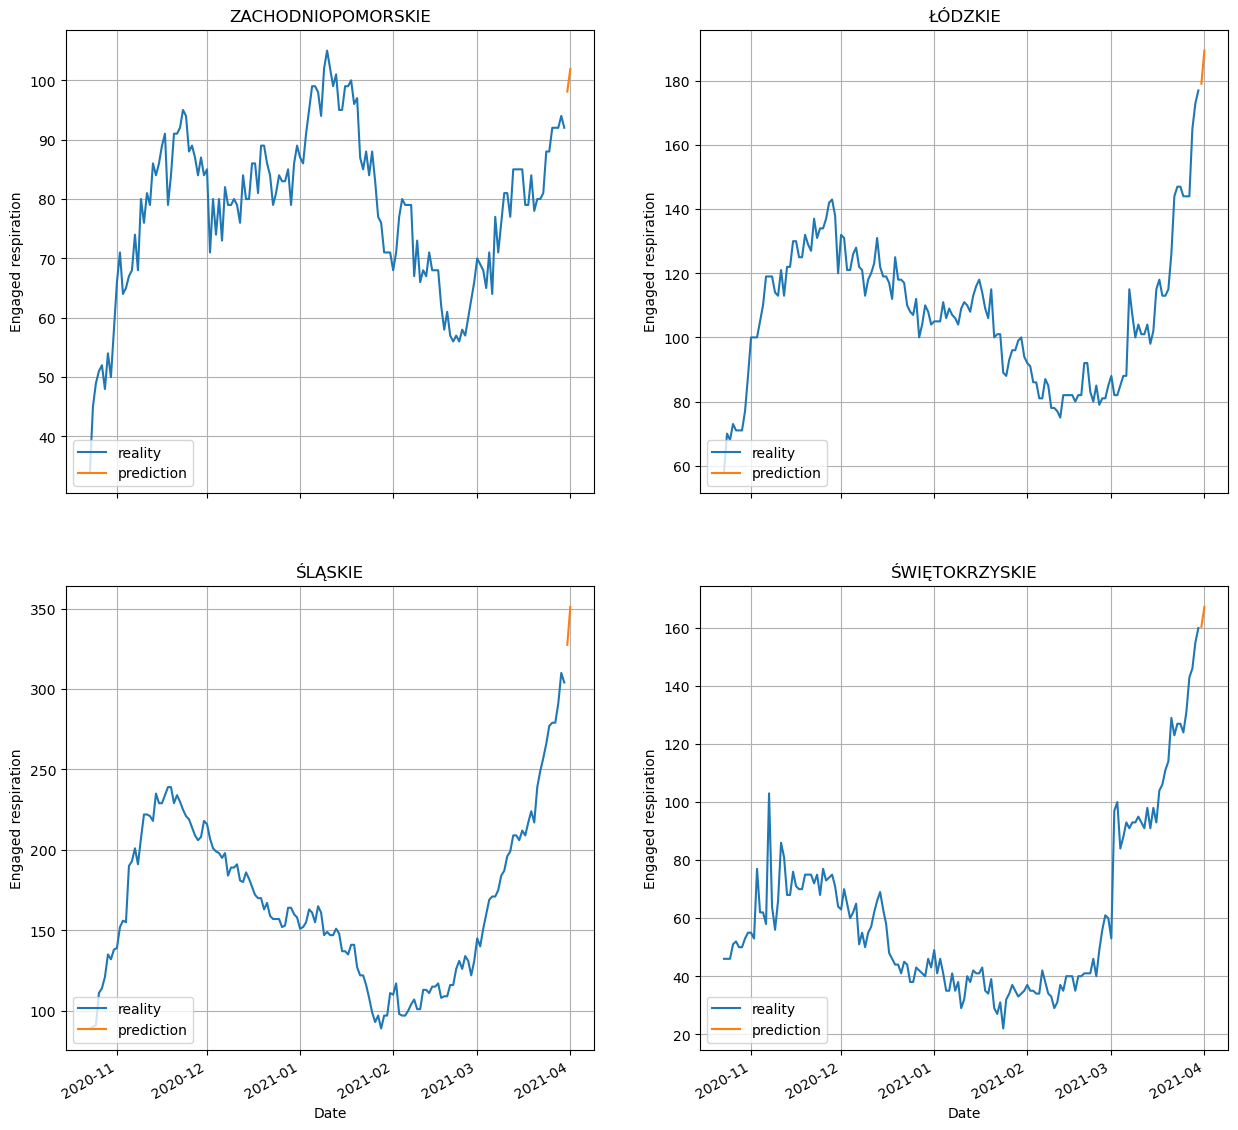
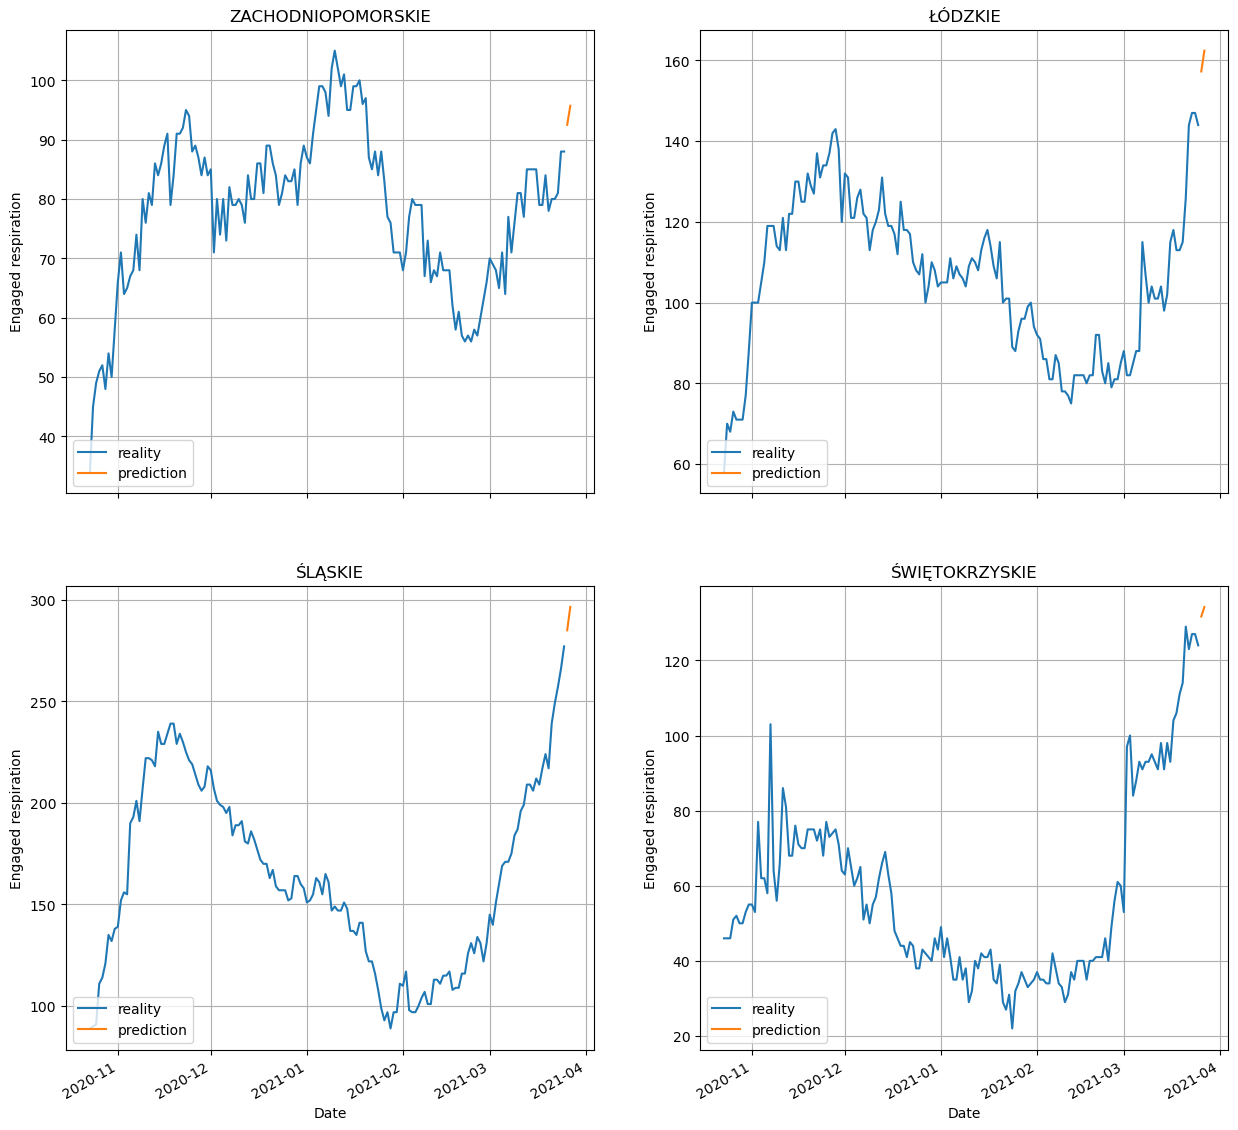
code reorganisation

diff --git a/RNN/prediction/make_prediction_and_plots.py b/RNN/prediction/make_prediction_and_plots.py
@@ -1,9 +1,7 @@
 from RNN.prediction.make_prediction_n_days_ahead import make_prediction_n_days_ahead
 from RNN.prediction.plot.plots import plot_prediction_to_poland_from_results, subplot_prediction_for_all_region, \
     subplot_relative_error_for_all_region, plot_averaged_relative_error_for_all_region, plot_relative_error_for_poland
-from prepareData.merge.merge_all_data import get_all_merge_data_from_to, get_all_merge_data
-
-import pandas as pd
+from prepare_data.merge.merge_all_data import get_all_merge_data_from_to, get_all_merge_data
 
 
 def make_prediction_and_subplot_for_all_regions(last_day_train='2021-03-20', day_ahead=30, period_of_time_learning=14,
@@ -15,7 +13,7 @@ def make_prediction_and_subplot_for_all_regions(last_day_train='2021-03-20', day
     results = make_prediction_n_days_ahead(data_all_days, day_ahead=day_ahead,
                                            period_of_time=period_of_time_learning, last_day_train=last_day_train)
     if subplot_for_regions:
-        data_merge_from_to = get_all_merge_data_from_to(data= data_all_days, last_day= last_day_train)
+        data_merge_from_to = get_all_merge_data_from_to(data=data_all_days, last_day=last_day_train)
         subplot_prediction_for_all_region([results], ['prediction'], data_merge_from_to)
 
     results['region'] = results['region'].replace('ŚŚ_average', 'POLSKA')
@@ -29,16 +27,14 @@ def make_prediction_and_subplot_for_all_regions(last_day_train='2021-03-20', day
     return results
 
 
-def make_plots_relative_error_for_regions(prediction=None):
-    if prediction is not None:
-        prediction = pd.read_csv('results/csv/prediction_for_region.csv')
+def make_plots_relative_error_for_regions(prediction):
 
     prediction['relative_error_%'] = 100 * abs(
         prediction['Engaged_respirator'] - prediction['prediction']) / prediction[
                                          'Engaged_respirator']
-    prediction_Poland = prediction[prediction['region'] == 'ŚŚ_average']
+    prediction_poland = prediction[prediction['region'] == 'ŚŚ_average']
     subplot_relative_error_for_all_region(prediction.copy())
     prediction = prediction[prediction['region'].isin(prediction['region'].unique()[:-3])]
 
     plot_averaged_relative_error_for_all_region(prediction)
-    plot_relative_error_for_poland(prediction_Poland)
+    plot_relative_error_for_poland(prediction_poland)

diff --git a/prepare_data/merge/merge_all_data.py b/prepare_data/merge/merge_all_data.py
@@ -1,13 +1,13 @@
-from prepareData.merge.merge_data_mobility_epidemic_situation import get_merge_data_from_to, get_merge_data
-from prepareData.augmentation.data_augmentation import data_augmentation
-from prepareData.prepare_data_area_population import preparing_data_area_population_regions
+from prepare_data.merge.data_area_and_population.prepare_data_area_population import \
+    preparing_data_area_population_regions
+from prepare_data.merge.merge_data_mobility_epidemic_situation import get_merge_data_from_to, get_merge_data
+from prepare_data.augmentation.data_augmentation import data_augmentation
 import pandas as pd
-from prepareData.test_train.make_train_test_from_merge_data import one_hot_encode
+from prepare_data.test_train.make_train_test_from_merge_data import one_hot_encode
 
 
 def get_all_merge_data_from_to(first_day: str = None, last_day='2021-05-05', number_of_gaussian_noise_regions=1,
                                data=None):
-
     if data is None:
         data = get_all_merge_data(number_of_gaussian_noise_regions)
     data_all_from_to = get_merge_data_from_to(first_day, last_day, data)

diff --git a/prepare_data/merge/data_epidemic_situation_in_regions/prepare_data_epidemic_situation_in_regions.py b/prepare_data/merge/data_epidemic_situation_in_regions/prepare_data_epidemic_situation_in_regions.py
@@ -1,6 +1,7 @@
 import pandas as pd
 
-from prepareData.read_spreadsheets.read_spreadsheets import get_spreadsheets_covid_situation_in_region_as_df
+from prepare_data.merge.data_epidemic_situation_in_regions.read_spreadsheets.read_spreadsheets import \
+    get_spreadsheets_covid_situation_in_region_as_df
 
 
 def prepare_data_epidemic_situation_in_regions(
@@ -86,7 +87,7 @@ def get_test_respiration(data_merge: pd.DataFrame, date):
     return finale_day
 
 # def get_test_respiration(date='2021-04-11'):
-#     finale_data = prepare_data_epidemic_situation_in_regions(
+#     finale_data = data_epidemic_situation_in_regions(
 #         'data/data_input/COVID-19 w Polsce - Sytuacja epidemiczna w województwach od 05.11 do 05.05.2021.csv')
 #
 #     finale_data = finale_data.drop(columns=[finale_data.columns[-2]])
@@ -100,4 +101,4 @@ def to_columns_type_numeric(data):
                       errors='ignore')
 
 
-# data_region: pd.DataFrame = prepare_data_epidemic_situation_in_regions(None)
+# data_region: pd.DataFrame = data_epidemic_situation_in_regions(None)

diff --git a/prepare_data/merge/merge_data_mobility_epidemic_situation.py b/prepare_data/merge/merge_data_mobility_epidemic_situation.py
@@ -2,13 +2,14 @@ from datetime import datetime
 import pandas as pd
 import numpy as np
 
-from prepareData.prepare_data_epidemic_situation_in_regions import prepare_data_epidemic_situation_in_regions
-from prepareData.prepare_data_mobility import get_prepared_data_mobility
+from prepare_data.merge.data_epidemic_situation_in_regions.prepare_data_epidemic_situation_in_regions import \
+    prepare_data_epidemic_situation_in_regions
+from prepare_data.merge.data_mobillity.prepare_data_mobility import get_prepared_data_mobility
 
 
 def get_data_mobility_and_data_epidemic_situation_in_regions():
     data_mobility = get_prepared_data_mobility()
-    data_epidemic_situation_in_regions = prepare_data_epidemic_situation_in_regions(None)
+    data_epidemic_situation_in_regions = prepare_data_epidemic_situation_in_regions(train_data_path=None)
     return data_mobility, data_epidemic_situation_in_regions
 
 

diff --git a/prepare_data/merge/data_for_poland_from_06_2020/merge_prepare_data_for_poland_from_11.06.2020.py b/prepare_data/merge/data_for_poland_from_06_2020/merge_prepare_data_for_poland_from_11.06.2020.py
@@ -1,8 +1,8 @@
 import pandas as pd
-from prepareData.merge.merge_data_mobility_epidemic_situation import get_merge_data_from_to
-from prepareData.prepare_data_mobility import get_prepared_data_mobility
-from prepareData.augmentation.data_augmentation import adding_Gaussian_Noise_to_data_Poland
-from prepareData.test_train.make_train_test_from_merge_data import one_hot_encode
+from prepare_data.merge.merge_data_mobility_epidemic_situation import get_merge_data_from_to
+from prepare_data.merge.data_mobillity import get_prepared_data_mobility
+from prepare_data.augmentation.data_augmentation import adding_Gaussian_Noise_to_data_Poland
+from prepare_data.test_train.make_train_test_from_merge_data import one_hot_encode
 
 
 def merge_data_for_Poland_from_06_2020(last_day='2021-03-20'):

diff --git a/RNN/prediction/make_prediction_n_days_ahead.py b/RNN/prediction/make_prediction_n_days_ahead.py
@@ -1,10 +1,11 @@
 import pandas as pd
 from RNN.model.simple_regresion import make_all, clear_model, make_future_submission
-from prepareData.merge.merge_all_data import get_all_merge_data_from_to
+from prepare_data.merge.merge_all_data import get_all_merge_data_from_to
 from datetime import datetime, timedelta
 
-from prepareData.prepare_data_epidemic_situation_in_regions import get_test_respiration
-from prepareData.test_train.make_train_test_from_merge_data import \
+from prepare_data.merge.data_epidemic_situation_in_regions.prepare_data_epidemic_situation_in_regions import \
+    get_test_respiration
+from prepare_data.test_train.make_train_test_from_merge_data import \
     reshape_data_merge_to_get_train_period_of_time_history, make_date_to_prediction, get_train_target
 
 

diff --git a/RNN/main.py b/RNN/main.py
@@ -1,9 +1,9 @@
 from RNN.prediction.make_prediction_and_plots import make_prediction_and_subplot_for_all_regions
 
-result = make_prediction_and_subplot_for_all_regions(last_day_train= '2021-03-30', day_ahead=2, period_of_time_learning=7,relative_error= False)
+result = make_prediction_and_subplot_for_all_regions(last_day_train= '2021-03-25', day_ahead=2, period_of_time_learning=7,relative_error= False)
 
-# %% now
-result = make_prediction_and_subplot_for_all_regions(last_day_train= None, day_ahead=30, period_of_time_learning=7, subplot_for_regions= False, relative_error=False)
+# %% current
+result = make_prediction_and_subplot_for_all_regions(last_day_train= None, day_ahead=21, period_of_time_learning=7, subplot_for_regions= False, relative_error=False)
 
 
 

diff --git a/prepare_data/test_train/make_train_test_from_merge_data.py b/prepare_data/test_train/make_train_test_from_merge_data.py
@@ -1,4 +1,3 @@
-# %%
 import pandas as pd
 import numpy as np
 
@@ -18,7 +17,6 @@ def averaged_merge_data_from_n_days(merge_data: pd.DataFrame, days_n, first_n_at
 def reshape_data_merge_to_get_train_period_of_time_history(data_merge: pd.DataFrame, number_of_days_in_one_row,
                                                            first_n_attribute_dsc_region=5):
     train_all = pd.DataFrame()
-    # data_merge = avaraged_merge_data_from_n_days(data_merge,3)
 
     data_merge, first_n_attribute_dsc_region = one_hot_encode(data_merge, 'region', first_n_attribute_dsc_region)
 

diff --git a/RNN/model/simple_regresion.py b/RNN/model/simple_regresion.py
@@ -61,12 +61,9 @@ def make_submission(test: pd.DataFrame, days_ahead):
 
 def make_future_submission(test: pd.DataFrame, day):
     prediction = NN_model.predict(test)
-    # name = 'prediction ' + str(days_ahead) + ' ahead'
-    # name = 'prediction'
     my_submission = pd.DataFrame({'region': test.index.get_level_values(0),
                                   'date': day,
                                   'prediction': prediction[:, 0]})
-    # my_submission = pd.DataFrame(index=test.index, data={name: list(prediction[:, 0])})
     return my_submission
 
 

diff --git a/prepare_data/merge/data_epidemic_situation_in_regions/read_spreadsheets/read_spreadsheets.py b/prepare_data/merge/data_epidemic_situation_in_regions/read_spreadsheets/read_spreadsheets.py
@@ -5,7 +5,7 @@ import pandas as pd
 
 def get_spreadsheets_covid_situation_in_region_as_list():
     SCOPES = ['https://www.googleapis.com/auth/spreadsheets.readonly']
-    SERVICE_ACCOUNT_FILE = 'prepareData/read_spreadsheets/key.json'
+    SERVICE_ACCOUNT_FILE = 'prepare_data/merge/data_epidemic_situation_in_regions/read_spreadsheets/key.json'
 
     creds = service_account.Credentials.from_service_account_file(
         SERVICE_ACCOUNT_FILE, scopes=SCOPES)

diff --git a/RNN/prediction/plot/plots.py b/RNN/prediction/plot/plots.py
@@ -38,7 +38,6 @@ def subplot_prediction_for_all_region(result_all_list: list, labels: list, data_
     date = data_merge_from_to_f['date'].unique()
 
     while z < len(regions):
-        print(z)
         plt.figure(figsize=(15, 15))
         for i in range(0, 4):
             if z + i >= len(regions):

diff --git a/prepare_data/merge/data_mobillity/prepare_data_mobility.py b/prepare_data/merge/data_mobillity/prepare_data_mobility.py
@@ -1,6 +1,6 @@
 import pandas as pd
 import numpy as np
-from prepareData.dowload_unzip.download_unzip import get_unzip_data_regions_mobility
+from prepare_data.merge.data_mobillity.dowload_unzip.download_unzip import get_unzip_data_regions_mobility
 
 
 def prepare_date_mobility(data_path=None):
